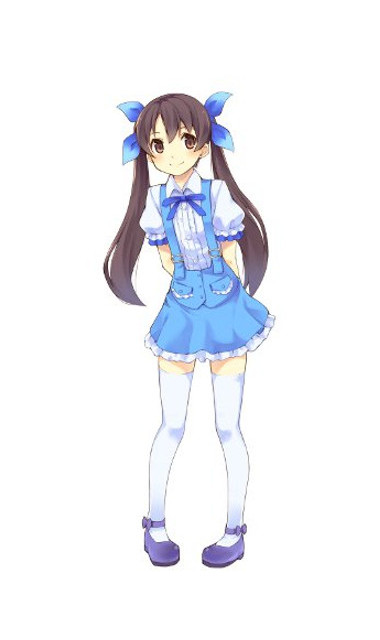
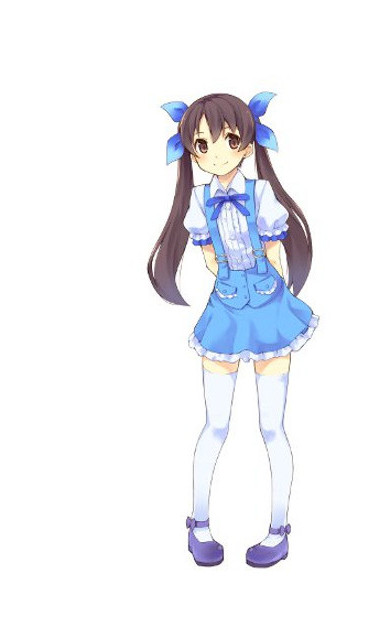
4

Changed region(s): [[0.2605, 0.125, 0.8395, 0.9062], [0.4342, 0.7188, 0.4632, 0.7812], [0.3763, 0.6875, 0.4053, 0.7188]]

diff --git a/public/js/he.js b/public/js/he.js
@@ -49,8 +49,8 @@ var hEvent = {
 		var yoImg = new Image();
 		yoImg.src=imgItem.img;
 		var refresh = function(){
-            //btn.width($(window).width());
-            //btn.height($(window).height());
+            btn.width($(window).width());
+            btn.height($(window).height());
 
             console.log('wsize', $(window).width(), $(window).height());
             ctHee.fillStyle = "#FFFFFF";
@@ -59,7 +59,7 @@ var hEvent = {
 
 			ctHee.drawImage(yoImg
 				// image size
-                ,100,0,480,640
+                ,50,0,480,640
                 // view side
                 ,0,0,48*5,64*5
 				//,0,10,(48 * 12),(32* 6)
@@ -72,10 +72,10 @@ var hEvent = {
 		}
 		var pushHe =function(){
             ctHee.fillStyle = "#000000";
-			ctHee.font = "18px 'ＭＳ Ｐゴシック'";
-			ctHee.fillText(imgItem.msg, 10, ($(window).width() / 25)+10 );
+			ctHee.font = "14px 'ＭＳ Ｐゴシック'";
+			ctHee.fillText(imgItem.msg, 10, ($(window).width() / 25) );
             if (imgItem.msg2){
-                ctHee.fillText(imgItem.msg2, 10, ($(window).width() / 25) + 35);
+                ctHee.fillText(imgItem.msg2, 10, ($(window).width() / 25) + 20);
             }
 			setTimeout(refresh,1000);
 		}
